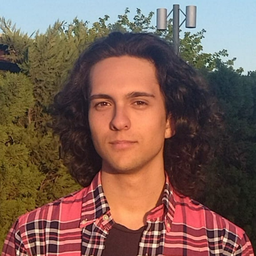
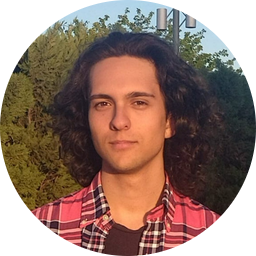
Changes

diff --git a/_includes/header.html b/_includes/header.html
@@ -1,57 +1,15 @@
-<!DOCTYPE html>
-<html lang="en">
-<head>
-  <meta charset="UTF-8">
-  <meta name="viewport" content="width=device-width, initial-scale=1.0">
-  <title>Imagen Circular</title>
-  <link rel="stylesheet" href="styles.css"> <!-- Enlace al archivo CSS -->
-  <style>
-    /* CSS directamente en el HTML (si no usas un archivo externo) */
-    .img-responsive {
-      border-radius: 50%; /* Hace que la imagen sea circular */
-      width: 150px; /* Ajusta el tamaño según tus necesidades */
-      height: 150px; /* Mantén las proporciones */
-      object-fit: cover; /* Asegura que la imagen se ajuste correctamente */
-      display: block; /* Elimina espacios extra alrededor */
-      margin: 0 auto; /* Centra la imagen dentro de su contenedor */
-      border: 5px solid #fff; /* Borde blanco para destacar */
-      box-shadow: 0 0 10px rgba(0, 0, 0, 0.5); /* Sombra opcional */
-    }
-    header {
-      text-align: center; /* Centra el contenido del encabezado */
-      padding: 50px 0; /* Espaciado alrededor del encabezado */
-      background-color: #222; /* Color de fondo oscuro */
-      color: #fff; /* Texto en blanco */
-    }
-    .intro-text .name {
-      font-size: 2em;
-      font-weight: bold;
-    }
-    .intro-text .skills {
-      font-size: 1.2em;
-    }
-    .star-light {
-      width: 50px;
-      border-top: 2px solid #fff; /* Línea separadora */
-      margin: 20px auto;
-    }
-  </style>
-</head>
-<body>
-  <!-- Header -->
-  <header>
-    <div class="container">
-      <div class="row">
-        <div class="col-lg-12">
-          <img class="img-responsive" src="../img/profile.png" alt="profile-pic" />
-          <div class="intro-text">
-            <span class="name">Tu Nombre</span>
-            <hr class="star-light" />
-            <span class="skills">Tus Habilidades</span>
-          </div>
+<!-- Header -->
+<header>
+  <div class="container">
+    <div class="row">
+      <div class="col-lg-12">
+        <img class="img-responsive" src="../img/profile.png" alt="profile-pic" />
+        <div class="intro-text">
+          <span class="name">{{ site.title }}</span>
+          <hr class="star-light" />
+          <span class="skills">{{ site.skills }}</span>
         </div>
       </div>
     </div>
-  </header>
-</body>
-</html>
+  </div>
+</header>
